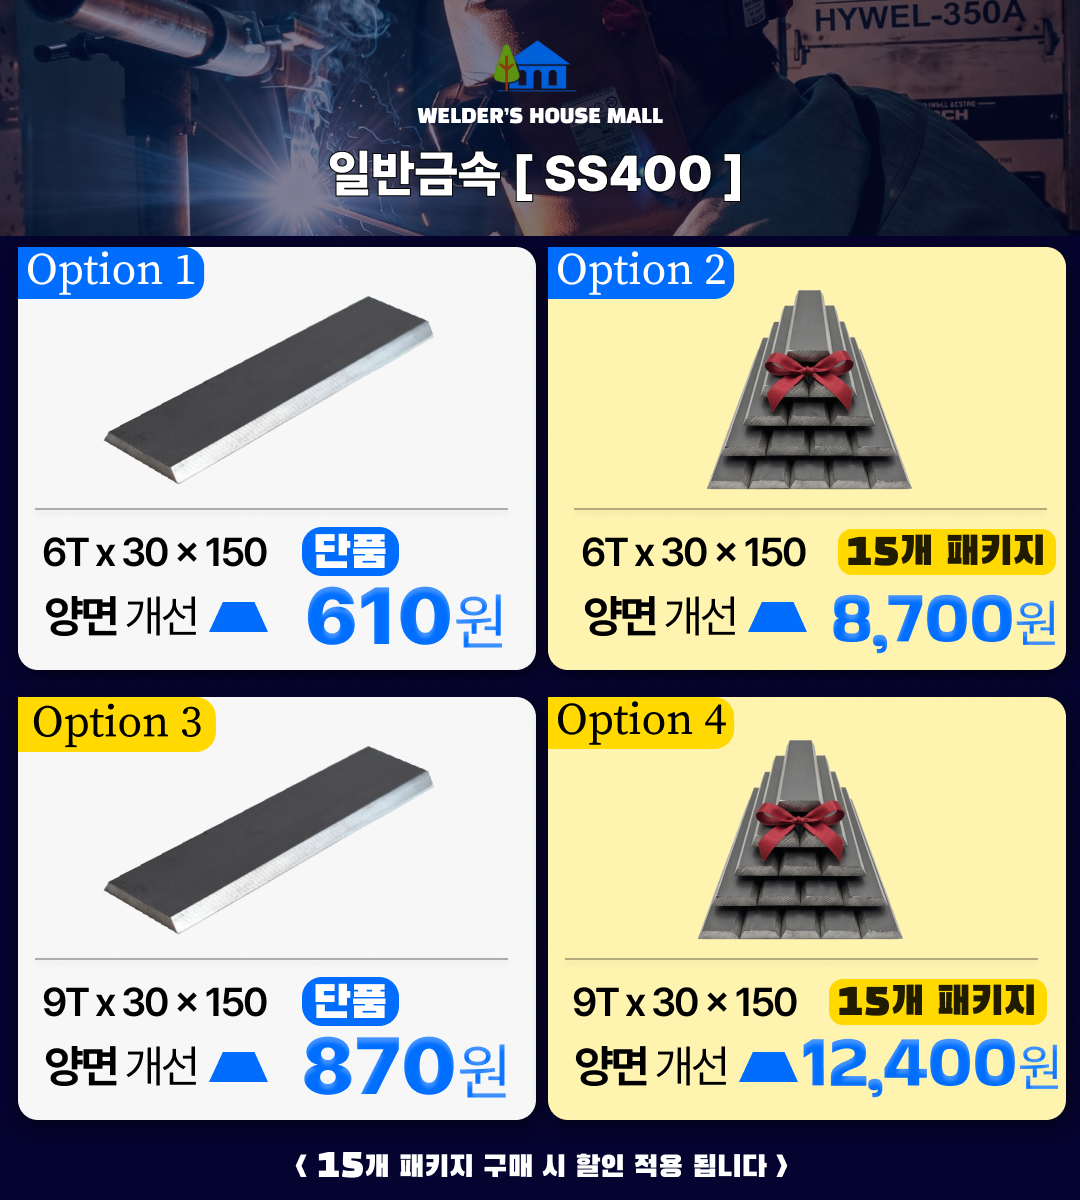
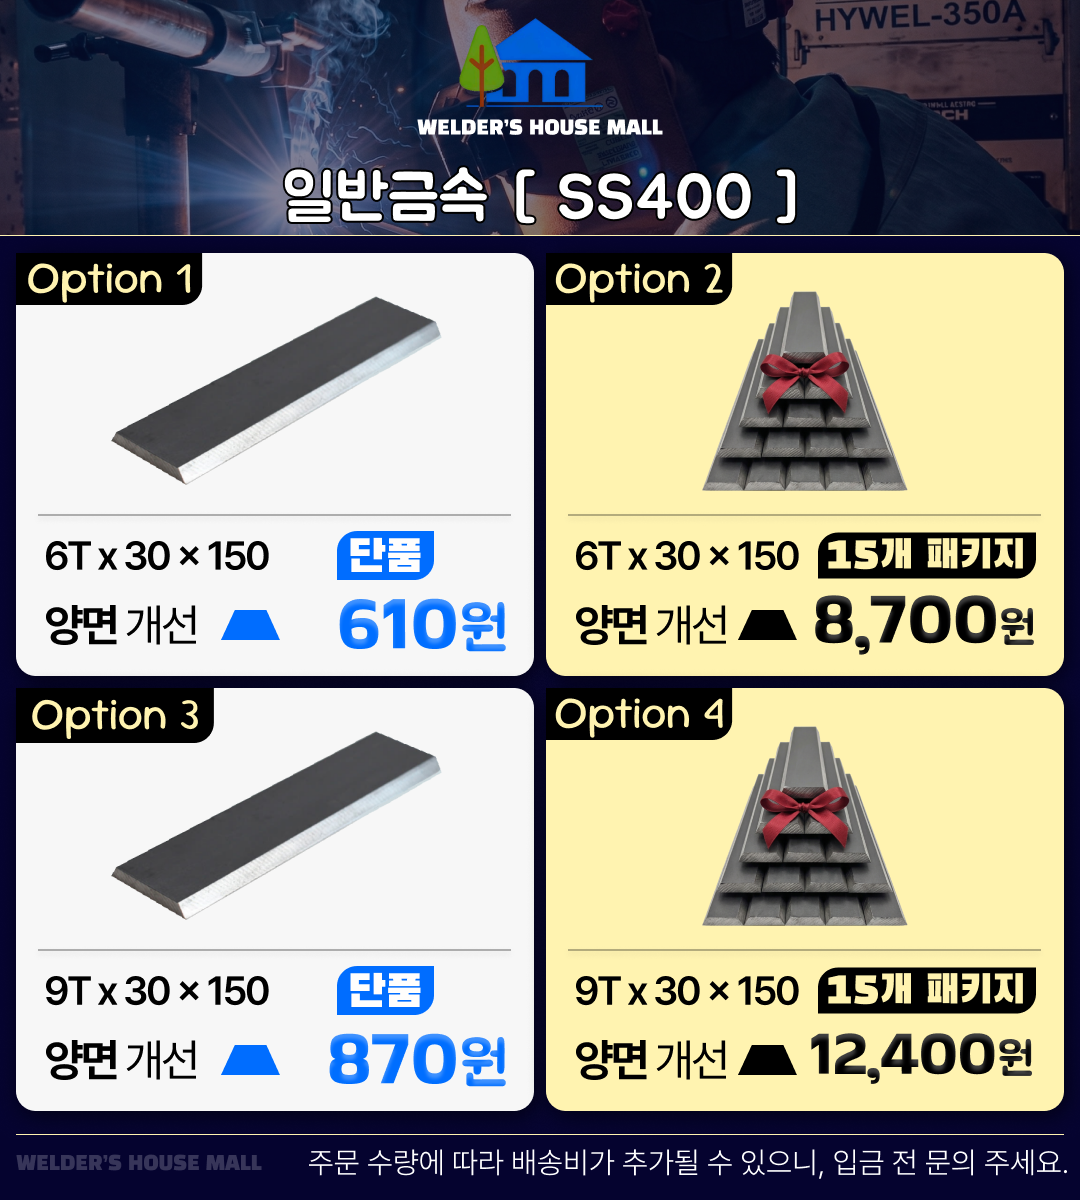
Update detail images (final)

diff --git a/index.html b/index.html
@@ -115,9 +115,9 @@
 
     <!-- 1. 상세페이지 이미지 영역 (PNG 확장자 적용) -->
     <div class="detail-page-container">
-        <img src="detail1.png?v=20261031" alt="일반금속 SS400 상세페이지">
-        <img src="detail2.png?v=20261031" alt="스테인리스 STS 3T 상세페이지">
-        <img src="detail3.png?v=20261031" alt="스테인리스 STS 4T 상세페이지">
+        <img src="detail1.png?v=20261031b" alt="일반금속 SS400 상세페이지">
+        <img src="detail2.png?v=20261031b" alt="스테인리스 STS 3T 상세페이지">
+        <img src="detail3.png?v=20261031b" alt="스테인리스 STS 4T 상세페이지">
     </div>
 
     <!-- 스크롤 이동 버튼 -->
